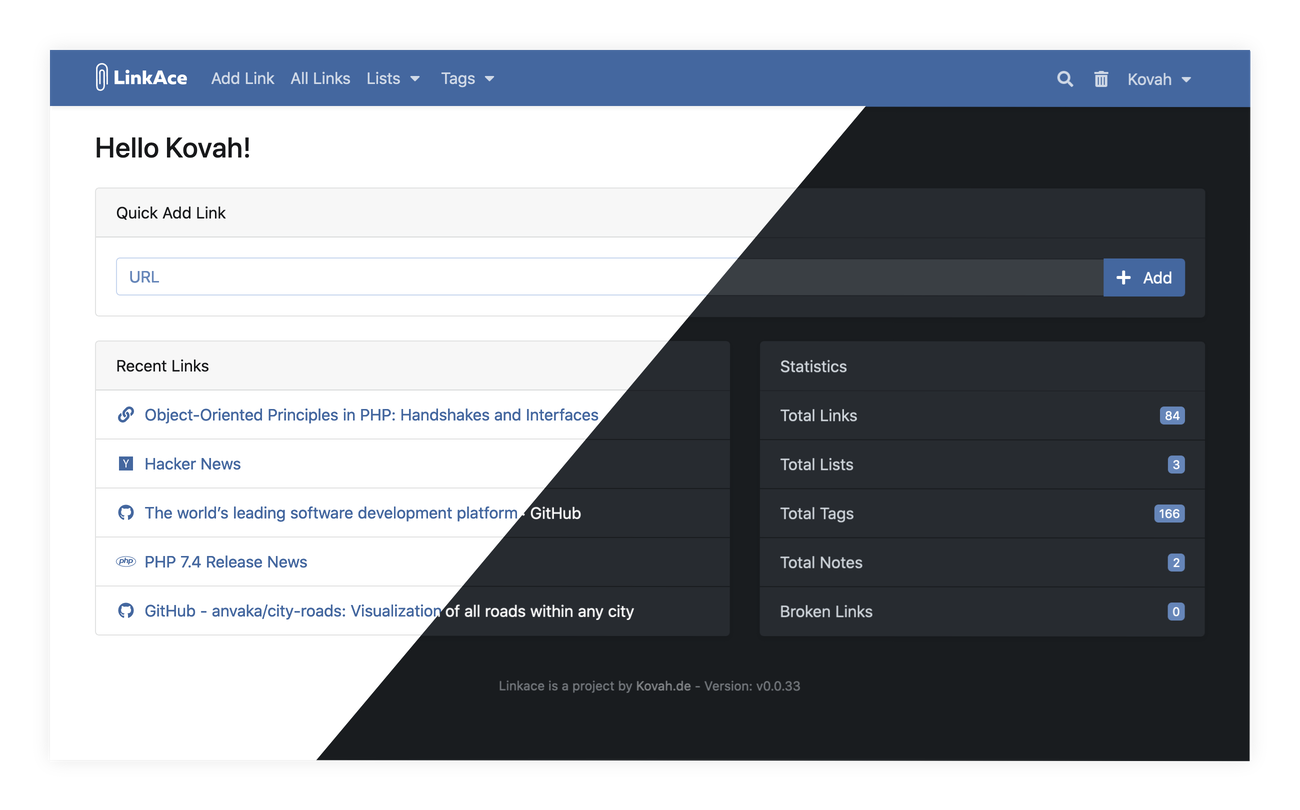
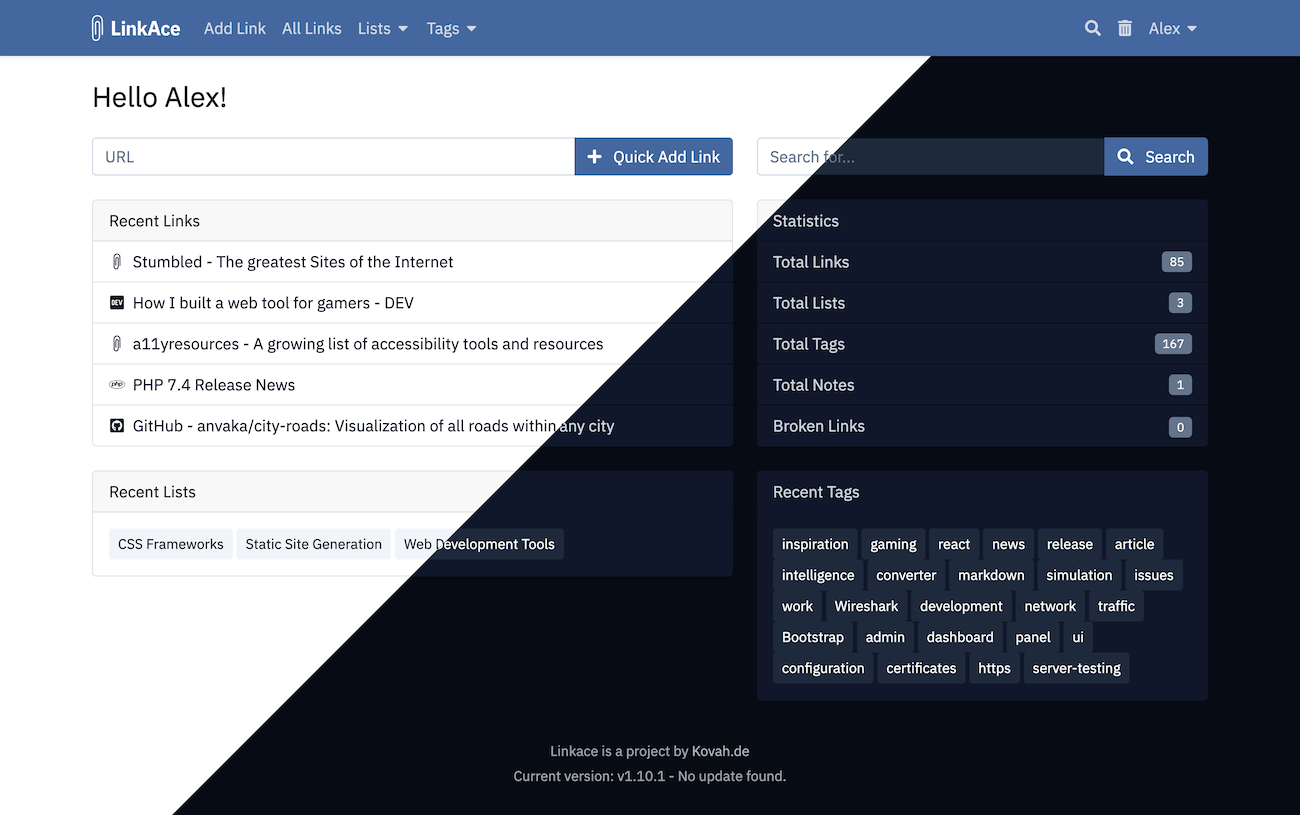
Update dashboard preview, adjust features pages

diff --git a/layouts/partials/features/overview.html b/layouts/partials/features/overview.html
@@ -11,15 +11,15 @@
 </div>
 
 <div class="row mb-8">
+  <div class="col-12 col-md-6 mb-4 mb-md-0">
+    <img src="/images/preview/backup_monitoring.png" alt="LinkAce Dashboard Preview">
+  </div>
   <div class="col-12 col-md-6 order-1 order-md-0 d-flex align-items-center">
     <div>
       <h3>Automated Backups and Monitoring</h3>
       <p>After you saved a link, it will automatically saved by the <a href="https://archive.org/web/" target="_blank">Internet Archive</a>. A reliable backup without maintenance. LinkAce will also monitor your links and notify you, if something's wrong.</p>
       <p>Please consider <a href="https://archive.org/donate/"><b>donating to the Internet Archive</b></a>.</p>
     </div>
-  </div>
-  <div class="col-12 col-md-6 mb-4 mb-md-0">
-    <img src="/images/preview/backup_monitoring.png" alt="LinkAce Dashboard Preview">
   </div>
 </div>
 
@@ -36,14 +36,14 @@
 </div>
 
 <div class="row mb-8">
+  <div class="col-12 col-md-6 mb-4 mb-md-0">
+    <img src="/images/preview/dark_mode.png" alt="LinkAce Dashboard Preview">
+  </div>
   <div class="col-12 col-md-6 order-1 order-md-0 d-flex align-items-center">
     <div>
       <h3>Darkmode</h3>
       <p>Whether you want it all the time or based on your operating system: LinkAce handles light and dark mode for you.</p>
     </div>
-  </div>
-  <div class="col-12 col-md-6 mb-4 mb-md-0">
-    <img src="/images/preview/dark_mode.png" alt="LinkAce Dashboard Preview">
   </div>
 </div>
 
@@ -60,14 +60,14 @@
 </div>
 
 <div class="row mb-8">
+  <div class="col-12 col-md-6 mb-4 mb-md-0">
+    <img src="/images/preview/api.png" alt="LinkAce Dashboard Preview">
+  </div>
   <div class="col-12 col-md-6 order-1 order-md-0 d-flex align-items-center">
     <div>
       <h3>LinkAce API</h3>
       <p>With a simple API key, other tools can access or edit all data within LinkAce. Connect the application with your favorite tools, integrate it into your workflow.</p>
     </div>
-  </div>
-  <div class="col-12 col-md-6 mb-4 mb-md-0">
-    <img src="/images/preview/api.png" alt="LinkAce Dashboard Preview">
   </div>
 </div>
 
@@ -84,14 +84,14 @@
 </div>
 
 <div class="row mb-8">
+  <div class="col-12 col-md-6 mb-4 mb-md-0">
+    <img src="/images/preview/bookmarklet.png" alt="LinkAce Bookmarklet Preview">
+  </div>
   <div class="col-12 col-md-6 order-1 order-md-0 d-flex align-items-center">
     <div>
       <h3>The Bookmarklet</h3>
       <p>Instead of bulky browser extensions, LinkAce provides an easy to use Bookmarklet. Save any website with a simple click. It also supports using the current text selection as a description for the link.</p>
     </div>
-  </div>
-  <div class="col-12 col-md-6 mb-4 mb-md-0">
-    <img src="/images/preview/bookmarklet.png" alt="LinkAce Bookmarklet Preview">
   </div>
 </div>
 
@@ -101,12 +101,13 @@
     <ul>
       <li class="mb-3">Titles, descriptions and thumbnails are generated automatically once you saved a link in LinkAce.</li>
       <li class="mb-3">Add unlimited notes to links to add thoughts, details, to dos or whatever you don't want to put into the link description.</li>
+      <li class="mb-3">LinkAce is available in 8 languages, including English, Catalan, Chinese, French, German, Hungarian, Norwegian and Spanish.</li>
       <li class="mb-3">Both private and public links are accessible via RSS feeds.</li>
       <li class="mb-3">You can import existing bookmarks from your browser based on a standard HTML file. Or export all links saved in LinkAce to this standard format to be consumed by browsers or other applications.</li>
-      <li class="mb-3">The app can be backed up to Amazon AWS, including both the application files and the database.</li>
+      <li class="mb-3">The app can be backed up to Amazon AWS or any S3-compatible service. Backups include both the application files and the database.</li>
       <li class="mb-3">Links, tags, lists or notes are not permanently deleted. A trash holds all "deleted" entries so nothing gets lost accidentally. You can restore all entries from the trash.</li>
       <li class="mb-3">To make sharing as easy as possible, LinkAce prepares share links for a lot of different apps: email, Twitter, Whatsapp, Reddit,...</li>
-      <li class="mb-3">Changes made to links are logged in the database so you know when you changed a title or the system marked a link as broken.</li>
+      <li class="mb-3">Changes made to links are logged in the database, so you know when you changed a title or the system marked a link as broken.</li>
       <li class="mb-3">A lot of configuration options ensure that LinkAce fits your needs: timezone, time and date formats, defaults for link creation, and many more.</li>
     </ul>
   </div>
